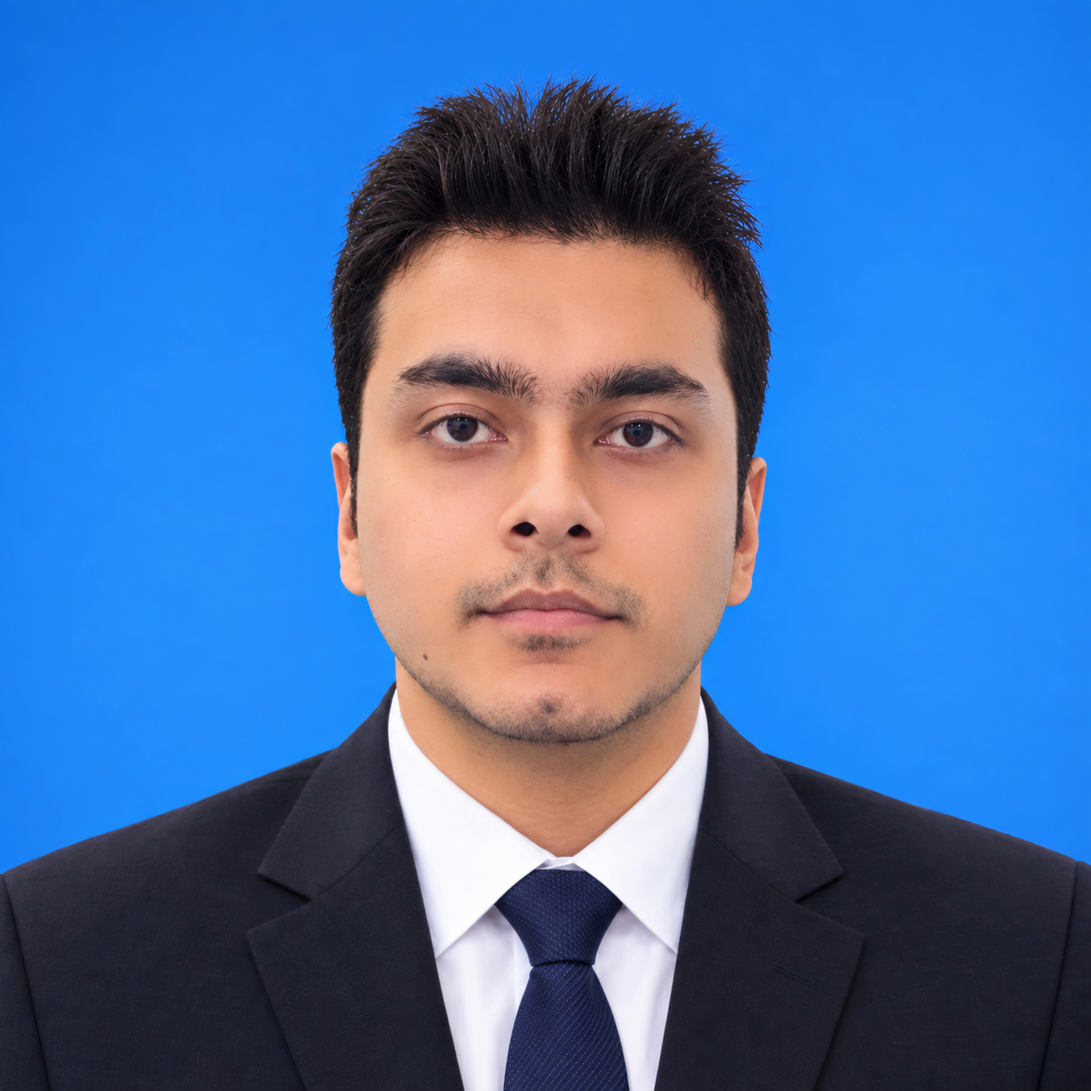
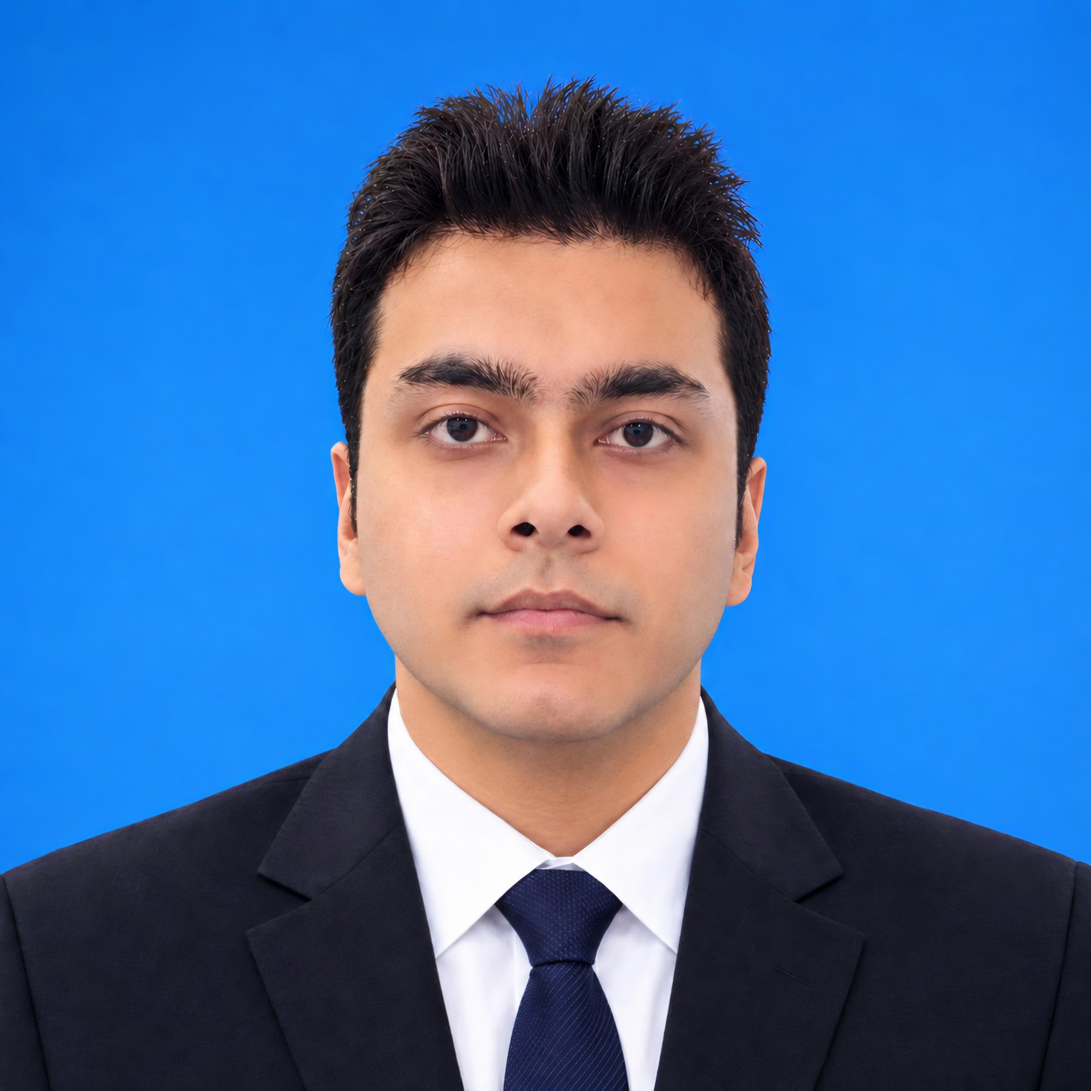
Polish portfolio branding and carousel performance

diff --git a/src/components/ProjectRow.jsx b/src/components/ProjectRow.jsx
@@ -1,21 +1,36 @@
-import { useEffect, useState } from 'react'
+import { useEffect, useRef, useState } from 'react'
 
 import Panel from './Panel'
 
 export default function ProjectRow({ project }) {
   const gallery = (project.images || [project.image]).filter(Boolean)
+  const articleRef = useRef(null)
   const [activeIndex, setActiveIndex] = useState(0)
   const [modalImage, setModalImage] = useState(null)
+  const [isVisible, setIsVisible] = useState(false)
 
   useEffect(() => {
-    if (gallery.length <= 1) return undefined
+    const article = articleRef.current
+    if (!article) return undefined
+
+    const observer = new IntersectionObserver(
+      ([entry]) => setIsVisible(entry.isIntersecting && entry.intersectionRatio >= 0.6),
+      { threshold: [0, 0.6, 1] },
+    )
+
+    observer.observe(article)
+    return () => observer.disconnect()
+  }, [])
+
+  useEffect(() => {
+    if (!isVisible || gallery.length <= 1) return undefined
 
     const timer = window.setInterval(() => {
       setActiveIndex((current) => (current + 1) % gallery.length)
     }, 4200)
 
     return () => window.clearInterval(timer)
-  }, [gallery])
+  }, [isVisible, gallery.length])
 
   useEffect(() => {
     const onKeyDown = (event) => {
@@ -32,7 +47,7 @@ export default function ProjectRow({ project }) {
   }
 
   return (
-    <article data-reveal className="group grid gap-8 lg:grid-cols-[minmax(0,6fr)_minmax(0,5fr)] lg:items-center lg:gap-14">
+    <article ref={articleRef} data-reveal className="group grid gap-8 lg:grid-cols-[minmax(0,6fr)_minmax(0,5fr)] lg:items-center lg:gap-14">
       <Panel panel={project.panel} />
 
       <div>
@@ -63,7 +78,7 @@ export default function ProjectRow({ project }) {
                       src={image}
                       alt={`${project.name} product preview ${index + 1}`}
                       className="h-56 w-full object-cover object-top sm:h-64"
-                      loading="lazy"
+                      loading={index === activeIndex ? 'eager' : 'lazy'}
                     />
                   </button>
                 ))}

diff --git a/src/components/Nav.jsx b/src/components/Nav.jsx
@@ -18,14 +18,13 @@ export default function Nav() {
 
   return (
     <nav aria-label="Sections" className="flex items-center justify-between gap-6 py-7 sm:py-9">
-      <a href="#" aria-label="Home" className="relative flex items-center gap-[3px]">
+      <a href="#" aria-label="Mohammad Aliyan home" className="relative font-display text-sm font-bold tracking-[0.12em] text-ink uppercase transition-colors hover:text-signal">
         <span
           aria-hidden="true"
           data-status-dot
           className="absolute -top-1 -right-2 h-1.5 w-1.5 rounded-full bg-signal"
         />
-        <span aria-hidden="true" className="h-3.5 w-[3px] bg-signal" />
-        <span aria-hidden="true" className="h-3.5 w-[3px] bg-ink" />
+        Mohammad Aliyan
       </a>
       <ul className="flex gap-4 text-[11px] tracking-[0.16em] uppercase sm:gap-7">
         {links.map((link) => (

diff --git a/index.html b/index.html
@@ -3,7 +3,7 @@
   <head>
     <meta charset="UTF-8" />
     <meta name="viewport" content="width=device-width, initial-scale=1.0" />
-    <link rel="icon" href="/favicon.svg" />
+    <link rel="icon" type="image/svg+xml" href="/favicon.svg" />
     <title>Mohammad Aliyan | Full-Stack Developer</title>
     <meta
       name="description"
